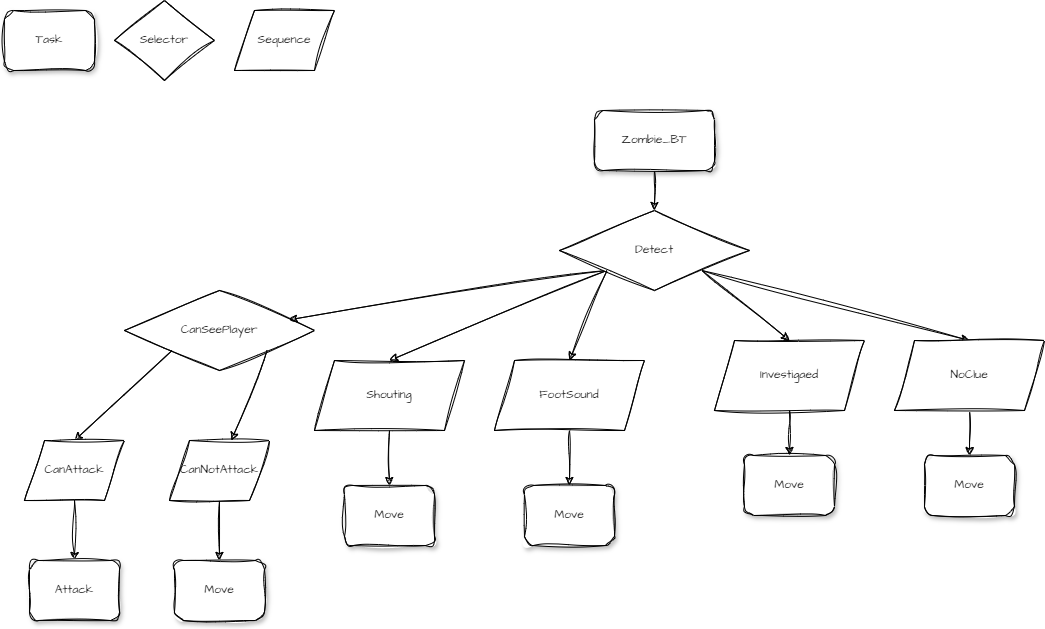
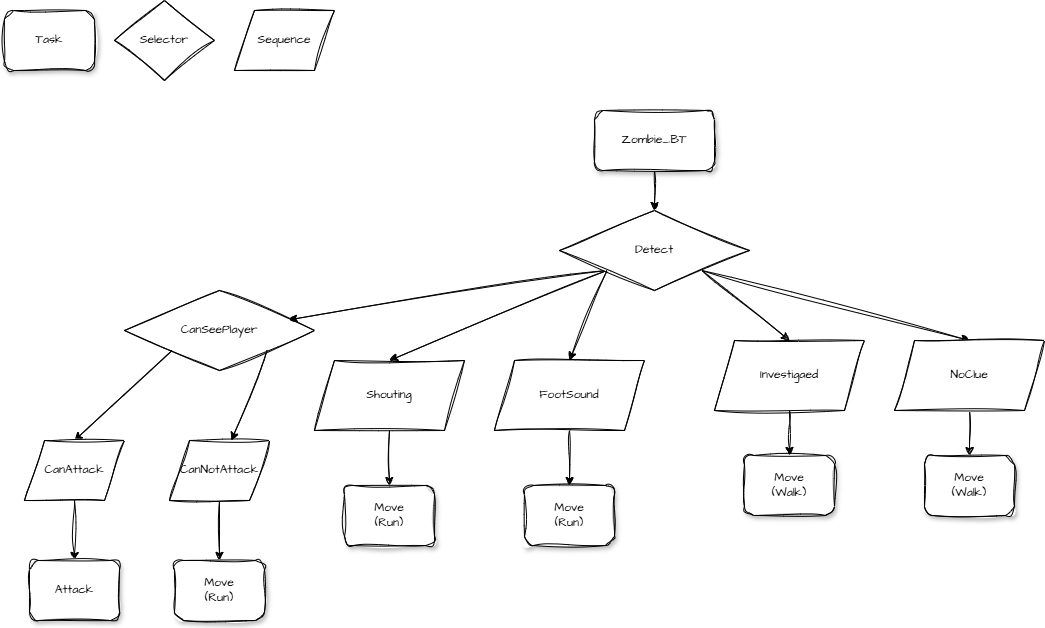
좀비 걷기 구현 (패트롤 할때나 플레이어 마지막 발견 위치로 갈때 걷기 수행 / 반면에 플레이어 발견하거나 샤우팅, 발소리 포착하면 뛰기 수행) => 서버는 구현 완료 / 다만, 클라도 구현필요 (ZombieMoveTo)

diff --git a/Server/Game Server/Server/Zombie.cpp b/Server/Game Server/Server/Zombie.cpp
@@ -64,6 +64,8 @@ Zombie::Zombie()
 	ClosestPlayerID = 0;
 
 	roomid = 0;
+
+	SetZombieType(ZOMBIE_TYPE::NULL_TYPE);
 }
 
 Zombie::Zombie(Zombie_Data z_d)
@@ -118,6 +120,8 @@ Zombie::Zombie(Zombie_Data z_d)
 	ClosestPlayerID = 0;
 
 	roomid = z_d.roomID;
+
+	SetZombieType(ZOMBIE_TYPE::NULL_TYPE);
 }
 
 Zombie::~Zombie()
@@ -587,6 +591,48 @@ void Zombie::MoveTo(float deltasecond)
 	float directionY = dy / distance;
 
 	// 이동 거리 계산
+	// 좀비 속도 지정 (걷기/뛰기)
+	if (targetType == TARGET::INVESTIGATED || targetType == TARGET::PATROL) {	// 걷기
+		float walk_speed_offset = 0.f;
+		if (targetType == TARGET::INVESTIGATED)	// 플레이어 마지막 발견 위치로 움직일 때는 걷기 스피드에서 +ZombieInvestigatedSpeed_Offset 만큼의 스피드
+			walk_speed_offset = ZombieInvestigatedSpeed_Offset;
+		
+		switch (GetZombieType()) {
+		case ZOMBIE_TYPE::NULL_TYPE:
+			cout << "[ERROR] 좀비 #" << ZombieData.zombieID << " ZombieType 변수값 미지정!!! ---> Speed = 0" << endl;
+			break;
+		case ZOMBIE_TYPE::NORMAL_ZOMBIE:
+			ZombieSpeed = NormalZombieWalkSpeed + walk_speed_offset;
+			break;
+		case ZOMBIE_TYPE::RUNNING_ZOMBIE:
+			ZombieSpeed = RunningZombieWalkSpeed + walk_speed_offset;
+			break;
+		case ZOMBIE_TYPE::SHOUTING_ZOMBIE:
+			ZombieSpeed = ShoutingZombieWalkSpeed + walk_speed_offset;
+			break;
+		}
+	}
+	else if (targetType == TARGET::PLAYER || targetType == TARGET::SHOUTING || targetType == TARGET::FOOTSOUND) {	// 뛰기
+		float run_speed_offset = 0.f;
+		if (targetType == TARGET::FOOTSOUND)	// 발소리를 들었을 때는 뛰기 스피드에서 +ZombieHeardFootSoundSpeed_Offset 만큼의 스피드
+			run_speed_offset = ZombieHeardFootSoundSpeed_Offset;
+
+		switch (GetZombieType()) {
+		case ZOMBIE_TYPE::NULL_TYPE:
+			cout << "[ERROR] 좀비 #" << ZombieData.zombieID << " ZombieType 변수값 미지정!!! ---> Speed = 0" << endl;
+			break;
+		case ZOMBIE_TYPE::NORMAL_ZOMBIE:
+			ZombieSpeed = NormalZombieSpeed + run_speed_offset;
+			break;
+		case ZOMBIE_TYPE::RUNNING_ZOMBIE:
+			ZombieSpeed = RunningZombieSpeed + run_speed_offset;
+			break;
+		case ZOMBIE_TYPE::SHOUTING_ZOMBIE:
+			ZombieSpeed = ShoutingZombieSpeed + run_speed_offset;
+			break;
+		}
+	}
+
 	float moveDistance = ZombieSpeed * deltasecond;
 
 	// 이동 벡터 계산

diff --git a/Server/Game Server/Server/Zombie.h b/Server/Game Server/Server/Zombie.h
@@ -49,6 +49,13 @@ public:
         PATROL
     };
 
+    enum ZOMBIE_TYPE {
+        NULL_TYPE,
+        NORMAL_ZOMBIE,
+        RUNNING_ZOMBIE,
+        SHOUTING_ZOMBIE
+    };
+
 
     IOCP_CORE* iocpServer;
 
@@ -76,15 +83,23 @@ public:
     float ZombieStandingStillDuration = 0.f;    // 좀비 숨고르기 (멍때리기) 지속 시간 (5~10초)
 
     const float NormalZombieStartHP = 20.0f;        // 20.0f
-    const float NormalZombieSpeed = 200.0f;         // 200.0f
+    const float NormalZombieSpeed = 200.0f;         // 200.0f (뛰기 스피드)
+    const float NormalZombieWalkSpeed = 100.0f;     // 100.0f (걷기 스피드)
 
     const float RunningZombieStartHP = 20.0f;        // 20.0f
-    const float RunningZombieSpeed = 300.0f;         // 300.0f
+    const float RunningZombieSpeed = 300.0f;         // 300.0f (뛰기 스피드)
+    const float RunningZombieWalkSpeed = 200.0f;     // 200.0f (걷기 스피드)
 
     const float ShoutingZombieStartHP = 30.0f;        // 30.0f
-    const float ShoutingZombieSpeed = 230.0f;         // 230.0f
+    const float ShoutingZombieSpeed = 230.0f;         // 230.0f (뛰기 스피드)
+    const float ShoutingZombieWalkSpeed = 150.0f;     // 150.0f (걷기 스피드)
+
+    const float ZombieInvestigatedSpeed_Offset = 40.f;     // 플레이어 마지막 발견 위치로 움직일 때는 걷기 스피드에서 +40.f 스피드
+    const float ZombieHeardFootSoundSpeed_Offset = -20.f;   // 발소리를 들었을 때는 뛰기 스피드에서 -20.f 스피드
 
     float ZombieSpeed;
+
+    ZOMBIE_TYPE ZombieType;
 
     Zombie_Data ZombieData;     // 통신에서 주로 사용할 데이터
 
@@ -185,5 +200,8 @@ public:
 
     float GetSpeed() const { return ZombieSpeed; }
     void SetSpeed(float speed) { ZombieSpeed = speed; }
+
+    ZOMBIE_TYPE GetZombieType() const { return ZombieType; }
+    void SetZombieType(ZOMBIE_TYPE z_type) { ZombieType = z_type; }
 
 };

diff --git a/Server/Game Server/Server/ShoutingZombie.cpp b/Server/Game Server/Server/ShoutingZombie.cpp
@@ -16,7 +16,9 @@ ShoutingZombie::ShoutingZombie(Zombie_Data z_d)
 {
 	SetHP(ShoutingZombieStartHP);
 
-	SetSpeed(ShoutingZombieSpeed);
+	//SetSpeed(ShoutingZombieSpeed);
+
+	SetZombieType(ZOMBIE_TYPE::SHOUTING_ZOMBIE);
 	
 	bShouted = false;
 

diff --git a/Server/Game Server/Server/RunningZombie.cpp b/Server/Game Server/Server/RunningZombie.cpp
@@ -15,6 +15,8 @@ RunningZombie::RunningZombie(Zombie_Data z_d)
 {
 	SetHP(RunningZombieStartHP);
 	
-	SetSpeed(RunningZombieSpeed);
+	//SetSpeed(RunningZombieSpeed);
+
+	SetZombieType(ZOMBIE_TYPE::RUNNING_ZOMBIE);
 
 }

diff --git a/Server/Game Server/Server/NormalZombie.cpp b/Server/Game Server/Server/NormalZombie.cpp
@@ -15,6 +15,8 @@ NormalZombie::NormalZombie(Zombie_Data z_d)
 {
 	SetHP(NormalZombieStartHP);
 
-	SetSpeed(NormalZombieSpeed);
+	//SetSpeed(NormalZombieSpeed);
+
+	SetZombieType(ZOMBIE_TYPE::NORMAL_ZOMBIE);
 
 }
